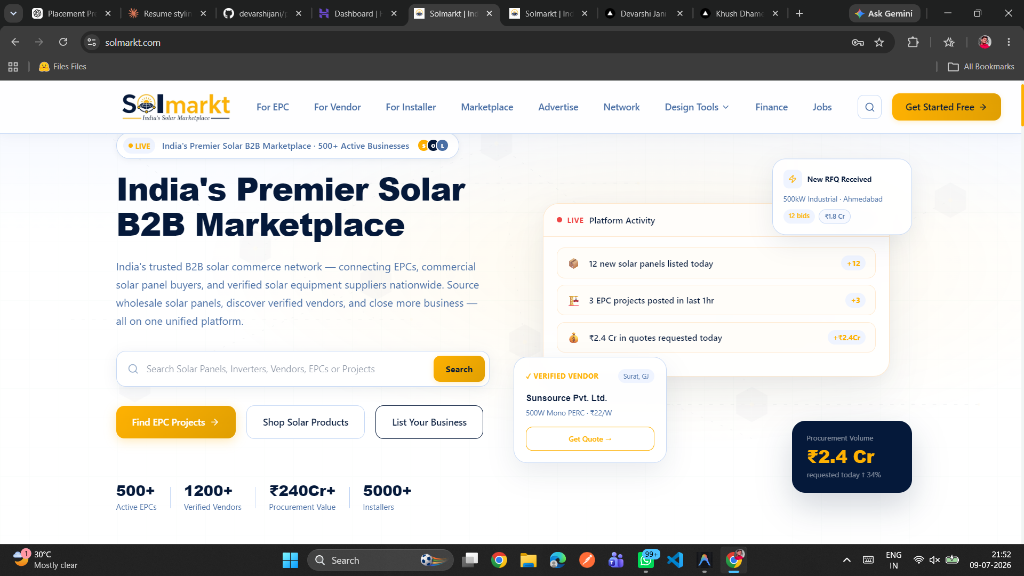
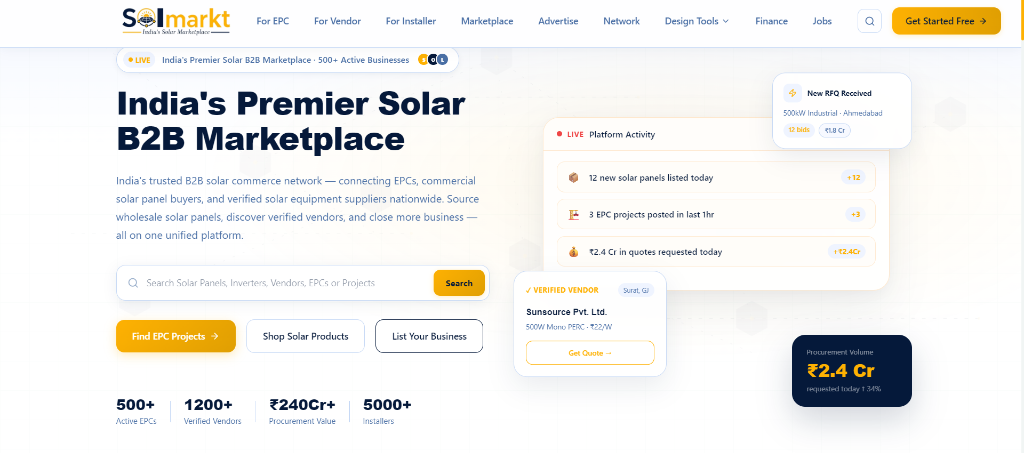
portfolio updates to V2

diff --git a/components/Navbar.jsx b/components/Navbar.jsx
@@ -64,19 +64,7 @@ export default function Navbar() {
                   </motion.a>
                 ))}
               </div>
-              <motion.a
-                href={resumeUrl}
-                download="Devarshi_Jani_Resume.pdf"
-                initial={{ opacity: 0, scale: 0.9 }}
-                animate={{ opacity: 1, scale: 1 }}
-                transition={{ delay: 0.5 }}
-                whileHover={{ scale: 1.05 }}
-                whileTap={{ scale: 0.95 }}
-                className="flex items-center gap-1.5 px-4 py-2 border border-orange-400/40 text-orange-400 hover:text-white hover:bg-gradient-to-r hover:from-pink-500 hover:to-orange-400 hover:border-transparent text-sm lg:text-base rounded-full font-semibold transition-all duration-300 shadow-lg shadow-orange-400/10 cursor-pointer"
-              >
-                <ArrowDownToLine size={16} />
-                Resume
-              </motion.a>
+
             </div>
 
             {/* Mobile menu button */}

diff --git a/components/Projects.jsx b/components/Projects.jsx
@@ -19,7 +19,7 @@ const projects = [
     title: "Sarthi",
     description:
       "A MERN ride-sharing platform with separate rider and driver portals. Features JWT-authenticated Socket.io channels, geospatial captain matching with MongoDB 2dsphere, real-time driver tracking on Leaflet maps, 6-digit OTP ride starts with rate lockout, and dynamic fares — hardened with Helmet.js security and express rate-limit.",
-    image: "/projects/sarthi.png",
+    image: "/projects/sarthi-new.png",
     technologies: ["React", "Node.js", "MongoDB", "Socket.io", "Leaflet", "GSAP"],
     liveUrl: "https://sarthi-pied.vercel.app/",
     githubUrl: "https://github.com/devarshijani/sarthi",